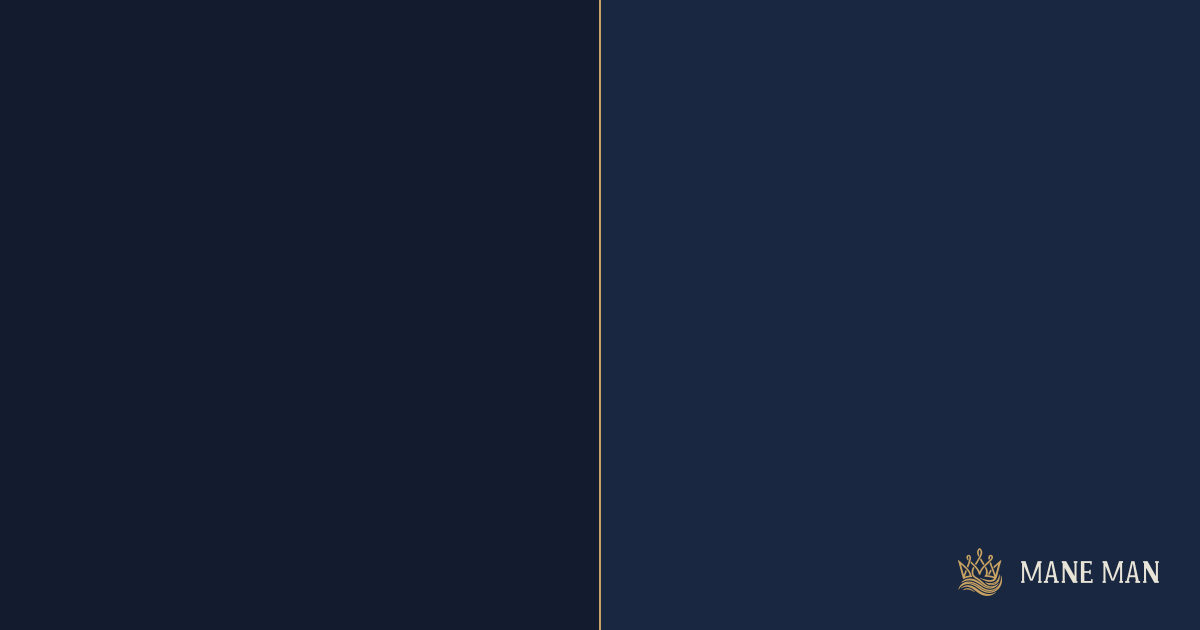
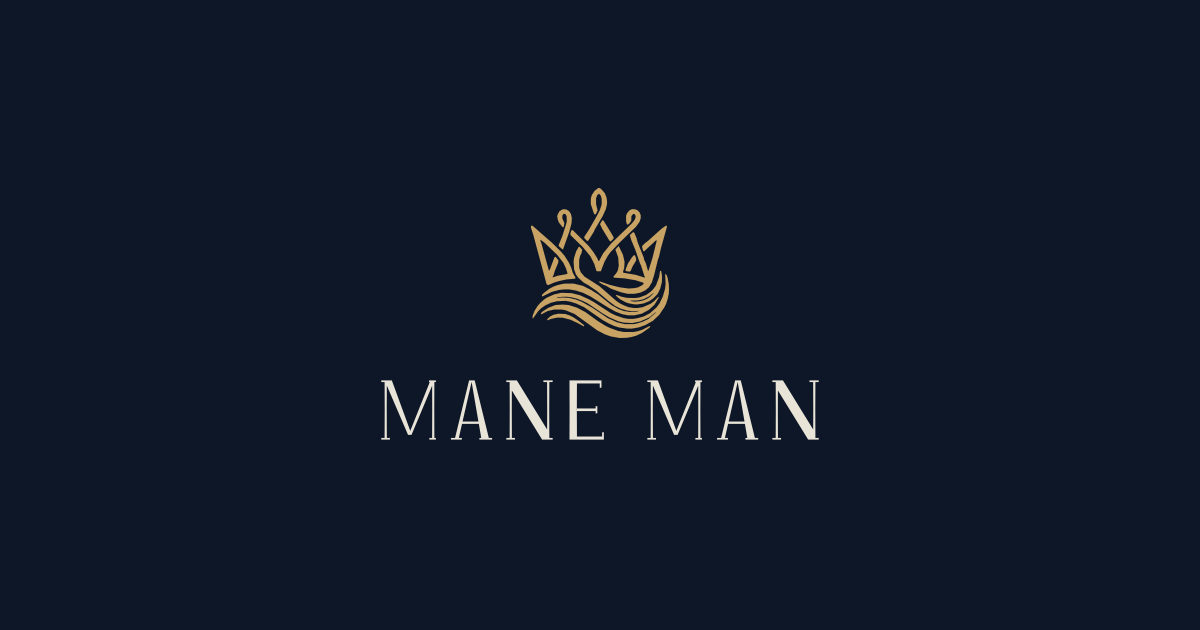
fix(site): a consent bar for the ad tags, switched off until counsel approves; the house card a finished card
The bar keeps the visitor's answer, updates Google's consent and starts the Meta Pixel on a yes; its words are drafted
and it stays off (CONSENT_BAR_SHOWN). With no photographs, the house referral card is one field of the deep ink with
the mark and wordmark at its centre, not two empty panels (version 3).

diff --git a/scripts/build/make-house-card.ts b/scripts/build/make-house-card.ts
@@ -1,11 +1,9 @@
 // The house referral card (design/phase2/Referral and Waitlist, A2): the 1200 x 630 image an invite shows when a
-// client has not made their own, or has taken theirs down. It has the referral card's layout, from the figures in
-// apps/app/src/refer/card-layout.ts: a gilt rule 2 px wide down the middle, and the mark and the wordmark's small cut
-// in the bottom right corner. The same rule and lockup, alone on a clear ground, are the overlay the API draws over
-// a client's two photographs to make their own card (src/providers/cards.ts).
-//
-// PLACEHOLDER: where the design has photographs, the two halves are the ink blocks it draws a card with, until
-// licensed ones are supplied (open point 52).
+// client has not made their own, or has taken theirs down. With no photographs to show, it is one field of the deep
+// ink with the brand's mark and wordmark at its centre: a finished card, never the two empty halves that wait for
+// photographs. The referral card's own layout, from the figures in apps/app/src/refer/card-layout.ts (a gilt rule
+// 2 px wide down the middle, and the mark and the wordmark's small cut in the bottom right corner), alone on a clear
+// ground, is the overlay the API draws over a client's two photographs to make their own card (src/providers/cards.ts).
 //
 //   node scripts/build/make-house-card.ts
 //
@@ -25,7 +23,7 @@ import {
   RULE_WIDTH,
   type Place,
 } from "../../apps/app/src/refer/card-layout.ts";
-import { MARK, WORDMARK_SMALL, type Drawing } from "../../packages/brand/marks.ts";
+import { MARK, WORDMARK, WORDMARK_SMALL, type Drawing } from "../../packages/brand/marks.ts";
 
 const OUTPUTS = ["site/public/images/invite-house.jpg", "apps/app/src/refer/invite-house.jpg"];
 const OVERLAY_MODULE = "src/config/card-overlay.ts";
@@ -45,10 +43,22 @@ const svg = (inside: string) =>
   ${inside}
 </svg>`;
 
-const card = svg(`<rect width="${String(HALF_WIDTH)}" height="${String(CARD_HEIGHT)}" fill="${token("--ink-frame")}"/>
-  <rect x="${String(HALF_WIDTH + RULE_WIDTH)}" width="${String(HALF_WIDTH)}" height="${String(CARD_HEIGHT)}"
-     fill="${token("--ink-raised")}"/>
-  ${marks}`);
+/** The mark above the wordmark, both at the card's centre: the house card's whole picture. */
+const MARK_HEIGHT = 150;
+const WORDMARK_WIDTH = 440;
+const GAP = 40;
+const markWidth = Math.round((MARK_HEIGHT * 200) / 217.4);
+const wordmarkHeight = Math.round((WORDMARK_WIDTH * 108) / 741);
+const top = Math.round((CARD_HEIGHT - MARK_HEIGHT - GAP - wordmarkHeight) / 2);
+const centred = (width: number) => Math.round((CARD_WIDTH - width) / 2);
+const card = svg(`<rect width="${String(CARD_WIDTH)}" height="${String(CARD_HEIGHT)}" fill="${token("--ink-deep")}"/>
+  ${drawing(MARK, { left: centred(markWidth), top, width: markWidth, height: MARK_HEIGHT }, token("--gilt"), "evenodd")}
+  ${drawing(
+    WORDMARK,
+    { left: centred(WORDMARK_WIDTH), top: top + MARK_HEIGHT + GAP, width: WORDMARK_WIDTH, height: wordmarkHeight },
+    token("--paper"),
+    "nonzero",
+  )}`);
 
 // Full colour resolution: halved, as JPEG usually stores it, a rule 2 px wide comes out grey.
 const jpeg = await sharp(new TextEncoder().encode(card)).jpeg({ quality: 82, chromaSubsampling: "4:4:4" }).toBuffer();

diff --git a/site/src/lib/analytics.ts b/site/src/lib/analytics.ts
@@ -111,12 +111,39 @@ function reportedAddress(address: string): string {
 /** Where the visitor's answer to the site's ad and measurement cookies is kept, "granted" once they agree. */
 const CONSENT_KEY = "mm-ad-consent";
 
-/** Whether the visitor has agreed to the ad tags. Storage refused, as in a private window, is no agreement. */
-function consented(): boolean {
+/** The visitor's answer to the ad tags: granted, denied, or null while they have not answered. */
+export function consentAnswer(): "granted" | "denied" | null {
   try {
-    return localStorage.getItem(CONSENT_KEY) === "granted";
+    const kept = localStorage.getItem(CONSENT_KEY);
+    return kept === "granted" || kept === "denied" ? kept : null;
   } catch {
-    return false;
+    // Storage refused, as in a private window: no answer kept.
+    return null;
+  }
+}
+
+const consented = (): boolean => consentAnswer() === "granted";
+
+/**
+ * The visitor's answer, kept, and the tags told: Google's consent updated, and the Meta Pixel started once they agree.
+ * Nothing is kept where storage is refused, and the bar asks again on the next page.
+ */
+export function answerConsent(answer: "granted" | "denied"): void {
+  try {
+    localStorage.setItem(CONSENT_KEY, answer);
+  } catch {
+    // Not kept; the tags are told for this page alone.
+  }
+  gtag("consent", "update", {
+    ad_storage: answer,
+    ad_user_data: answer,
+    ad_personalization: answer,
+    analytics_storage: answer,
+  });
+  const ids = ANALYTICS_IDS[ENVIRONMENT];
+  const onInvite = INVITE_PATH_IN_URL.test(location.pathname);
+  if (answer === "granted" && ids.metaPixel !== null && !onInvite && window.fbq === undefined) {
+    startMetaPixel(ids.metaPixel);
   }
 }
 

diff --git a/site/src/content/site/contact.ts b/site/src/content/site/contact.ts
@@ -11,6 +11,18 @@ export const whatsapp = {
   label: `WhatsApp · ${WHATSAPP_DISPLAY}`,
 };
 
+/**
+ * The bar that asks for consent to the ad and measurement tags (site/src/components/ConsentBar.astro): our words,
+ * which counsel has still to see, so the bar is switched off until they approve (CONSENT_BAR_SHOWN).
+ */
+export const consentBar = {
+  publish: true,
+  text: "We'd like to measure visits and the ads that bring them, with cookies from Google and Meta. Nothing you type in a form goes to them.",
+  privacy: "How we use your details",
+  accept: "Allow",
+  decline: "No thanks",
+};
+
 /** The booking form or the try-on, when it failed to draw: the way to us instead. */
 export const islandFailed = {
   publish: true,

diff --git a/test/node/site/site-content.test.ts b/test/node/site/site-content.test.ts
@@ -439,6 +439,8 @@ describe("site helpers", () => {
[1 lines of base64/hex data omitted]
       // The referral card's gilt rule and lockup (scripts/build/make-house-card.ts).
[1 lines of base64/hex data omitted]
+      // One field of the deep ink with the mark and wordmark at its centre, with no photographs to wait for.
[1 lines of base64/hex data omitted]
     };
     const file = createHash("sha256").update(readFileSync("site/public/images/invite-house.jpg")).digest("hex");
     expect(file, "invite-house.jpg changed: raise HOUSE_CARD_VERSION and record the new file here").toBe(

diff --git a/site/src/lib/flags.ts b/site/src/lib/flags.ts
@@ -6,3 +6,9 @@
  * site/wrangler.jsonc, which test/node/site/site-prices.test.ts keeps in step).
  */
 export const PRICES_SHOWN = false as boolean;
+
+/**
+ * Whether the site asks for consent to its ad and measurement tags (site/src/components/ConsentBar.astro). Off until
+ * counsel approves its words; while off, no visitor can agree, so Google's tags stay denied and the Meta Pixel unloaded.
+ */
+export const CONSENT_BAR_SHOWN = false as boolean;

diff --git a/src/config/house-card.ts b/src/config/house-card.ts
@@ -8,5 +8,5 @@
 // new card needs a new version here. test/node/site/site-content.test.ts fails if
 // the file changes and this does not.
 
-export const HOUSE_CARD_VERSION = 2;
+export const HOUSE_CARD_VERSION = 3;
 export const HOUSE_CARD = `/images/invite-house.jpg?v=${String(HOUSE_CARD_VERSION)}`;
